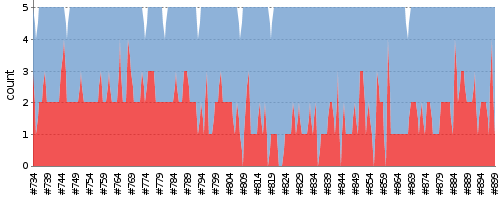
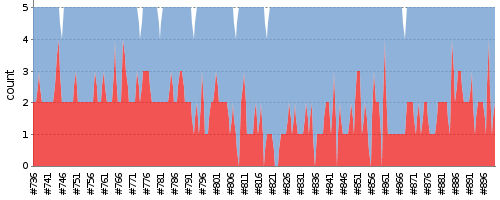
update report

diff --git a/index.md b/index.md
@@ -1,7 +1,7 @@
 ---
 layout: default
 ---
-Last update : 2016/01/23 19:59:05
+Last update : 2016/01/23 20:59:06
   
 ### Job Summary
 ___
@@ -116,6 +116,7 @@ ___
 #### Build History
 |Status|Time|Duration|Inspection|Test|Coverage|Changes|Build|Console|Image|Video|Note|
 |---|---|---|---|---|---|---|---|---|---|---|---|---|
+|![Jenkins Icon](http://jenkinshrg.github.io/images/24x24/yellow.png)UNSTABLE|2016/01/23 20:00|45 min.||2 err.|||[openhrp3.log](https://drive.google.com/file/d/0B54sHwaxmuM4M0N6NWlxbXpqZWM/view?usp=drivesdk)<br>[hrpsys-base.log](https://drive.google.com/file/d/0B54sHwaxmuM4RkUxVndKTWpjZVk/view?usp=drivesdk)<br>[HRP2.log](https://drive.google.com/file/d/0B54sHwaxmuM4R3BycU9EbkxjR0k/view?usp=drivesdk)<br>[HRP2DRC.log](https://drive.google.com/file/d/0B54sHwaxmuM4cnhvS0tIQU00SEE/view?usp=drivesdk)<br>[hmc2.log](https://drive.google.com/file/d/0B54sHwaxmuM4UnVwSk9RaHRLOW8/view?usp=drivesdk)<br>[hrpsys-humanoid.log](https://drive.google.com/file/d/0B54sHwaxmuM4REJsN0ZyYllpS2s/view?usp=drivesdk)<br>[hrpsys-private.log](https://drive.google.com/file/d/0B54sHwaxmuM4dEFMMmtFekV5R1E/view?usp=drivesdk)<br>[choreonoid.log](https://drive.google.com/file/d/0B54sHwaxmuM4MmRLRnNhNnJHVjQ/view?usp=drivesdk)<br>|[jenkinshrg.txt](https://drive.google.com/file/d/0B54sHwaxmuM4VGlhdE1xRm1wY3c/view?usp=drivesdk)<br>|[jenkinshrg.png](https://drive.google.com/file/d/0B54sHwaxmuM4dzBzelljcTJKVDg/view?usp=drivesdk)<br>|||
 |![Jenkins Icon](http://jenkinshrg.github.io/images/24x24/yellow.png)UNSTABLE|2016/01/23 19:00|45 min.||1 err.|||[openhrp3.log](https://drive.google.com/file/d/0B54sHwaxmuM4YTdVcUdZamwxWDQ/view?usp=drivesdk)<br>[hrpsys-base.log](https://drive.google.com/file/d/0B54sHwaxmuM4aHIta1hKMk8yVXM/view?usp=drivesdk)<br>[HRP2.log](https://drive.google.com/file/d/0B54sHwaxmuM4M2hqRHBvZ3FDaGs/view?usp=drivesdk)<br>[HRP2DRC.log](https://drive.google.com/file/d/0B54sHwaxmuM4VVNPMVRXdGdiOEk/view?usp=drivesdk)<br>[hmc2.log](https://drive.google.com/file/d/0B54sHwaxmuM4NllOVUc2TjF4cVE/view?usp=drivesdk)<br>[hrpsys-humanoid.log](https://drive.google.com/file/d/0B54sHwaxmuM4a3Uta292SC1ndHM/view?usp=drivesdk)<br>[hrpsys-private.log](https://drive.google.com/file/d/0B54sHwaxmuM4cXM0UWlHeDIzekU/view?usp=drivesdk)<br>[choreonoid.log](https://drive.google.com/file/d/0B54sHwaxmuM4eGtSNER0SmZRTk0/view?usp=drivesdk)<br>|[jenkinshrg.txt](https://drive.google.com/file/d/0B54sHwaxmuM4RHdMLWRtM1ZFSU0/view?usp=drivesdk)<br>|[jenkinshrg.png](https://drive.google.com/file/d/0B54sHwaxmuM4X1ZGemFMT2RSd0E/view?usp=drivesdk)<br>|||
 |![Jenkins Icon](http://jenkinshrg.github.io/images/24x24/yellow.png)UNSTABLE|2016/01/23 18:00|45 min.||4 err.|||[openhrp3.log](https://drive.google.com/file/d/0B54sHwaxmuM4R0JFZnM2RmZSYlE/view?usp=drivesdk)<br>[hrpsys-base.log](https://drive.google.com/file/d/0B54sHwaxmuM4VDhVRk5HR3VaTGc/view?usp=drivesdk)<br>[HRP2.log](https://drive.google.com/file/d/0B54sHwaxmuM4RW1VcmRZWDFQTE0/view?usp=drivesdk)<br>[HRP2DRC.log](https://drive.google.com/file/d/0B54sHwaxmuM4R3YwYkNVVGRCQU0/view?usp=drivesdk)<br>[hmc2.log](https://drive.google.com/file/d/0B54sHwaxmuM4a2F4VjNVUkF6UXc/view?usp=drivesdk)<br>[hrpsys-humanoid.log](https://drive.google.com/file/d/0B54sHwaxmuM4QkxabXl1QWVoTFE/view?usp=drivesdk)<br>[hrpsys-private.log](https://drive.google.com/file/d/0B54sHwaxmuM4UGFmWmJsVjVvaDg/view?usp=drivesdk)<br>[choreonoid.log](https://drive.google.com/file/d/0B54sHwaxmuM4SV9BZkgyTW9pNnM/view?usp=drivesdk)<br>|[jenkinshrg.txt](https://drive.google.com/file/d/0B54sHwaxmuM4UTkwY3BsYkNMSFU/view?usp=drivesdk)<br>|[jenkinshrg.png](https://drive.google.com/file/d/0B54sHwaxmuM4U2RKQWU2cGJjSmM/view?usp=drivesdk)<br>|||
 |![Jenkins Icon](http://jenkinshrg.github.io/images/24x24/yellow.png)UNSTABLE|2016/01/23 17:00|45 min.||1 err.|||[openhrp3.log](https://drive.google.com/file/d/0B54sHwaxmuM4R1Fkeks4QURZS1U/view?usp=drivesdk)<br>[hrpsys-base.log](https://drive.google.com/file/d/0B54sHwaxmuM4V1ZCUkpfVnltcWs/view?usp=drivesdk)<br>[HRP2.log](https://drive.google.com/file/d/0B54sHwaxmuM4a1EwbmJxa1J3UUk/view?usp=drivesdk)<br>[HRP2DRC.log](https://drive.google.com/file/d/0B54sHwaxmuM4T0trN1NWX3I1Vm8/view?usp=drivesdk)<br>[hmc2.log](https://drive.google.com/file/d/0B54sHwaxmuM4NGxTZUh4dEstb0k/view?usp=drivesdk)<br>[hrpsys-humanoid.log](https://drive.google.com/file/d/0B54sHwaxmuM4QlNrNFZzVkxKU2s/view?usp=drivesdk)<br>[hrpsys-private.log](https://drive.google.com/file/d/0B54sHwaxmuM4alBBNnRTQVVBRlU/view?usp=drivesdk)<br>[choreonoid.log](https://drive.google.com/file/d/0B54sHwaxmuM4YlN3R2xIYnNQQlk/view?usp=drivesdk)<br>|[jenkinshrg.txt](https://drive.google.com/file/d/0B54sHwaxmuM4V2x5Z3d3ZW0wbjQ/view?usp=drivesdk)<br>|[jenkinshrg.png](https://drive.google.com/file/d/0B54sHwaxmuM4a05TMDlmQUxpcEk/view?usp=drivesdk)<br>|||
@@ -215,4 +216,3 @@ ___
 |![Jenkins Icon](http://jenkinshrg.github.io/images/24x24/yellow.png)UNSTABLE|2016/01/20 00:00|45 min.||2 err.||||||||
 |![Jenkins Icon](http://jenkinshrg.github.io/images/24x24/yellow.png)UNSTABLE|2016/01/19 23:00|45 min.||2 err.||||||||
 |![Jenkins Icon](http://jenkinshrg.github.io/images/24x24/yellow.png)UNSTABLE|2016/01/19 22:00|45 min.||3 err.||||||||
-|![Jenkins Icon](http://jenkinshrg.github.io/images/24x24/yellow.png)UNSTABLE|2016/01/19 21:00|46 min.||2 err.||||||||
